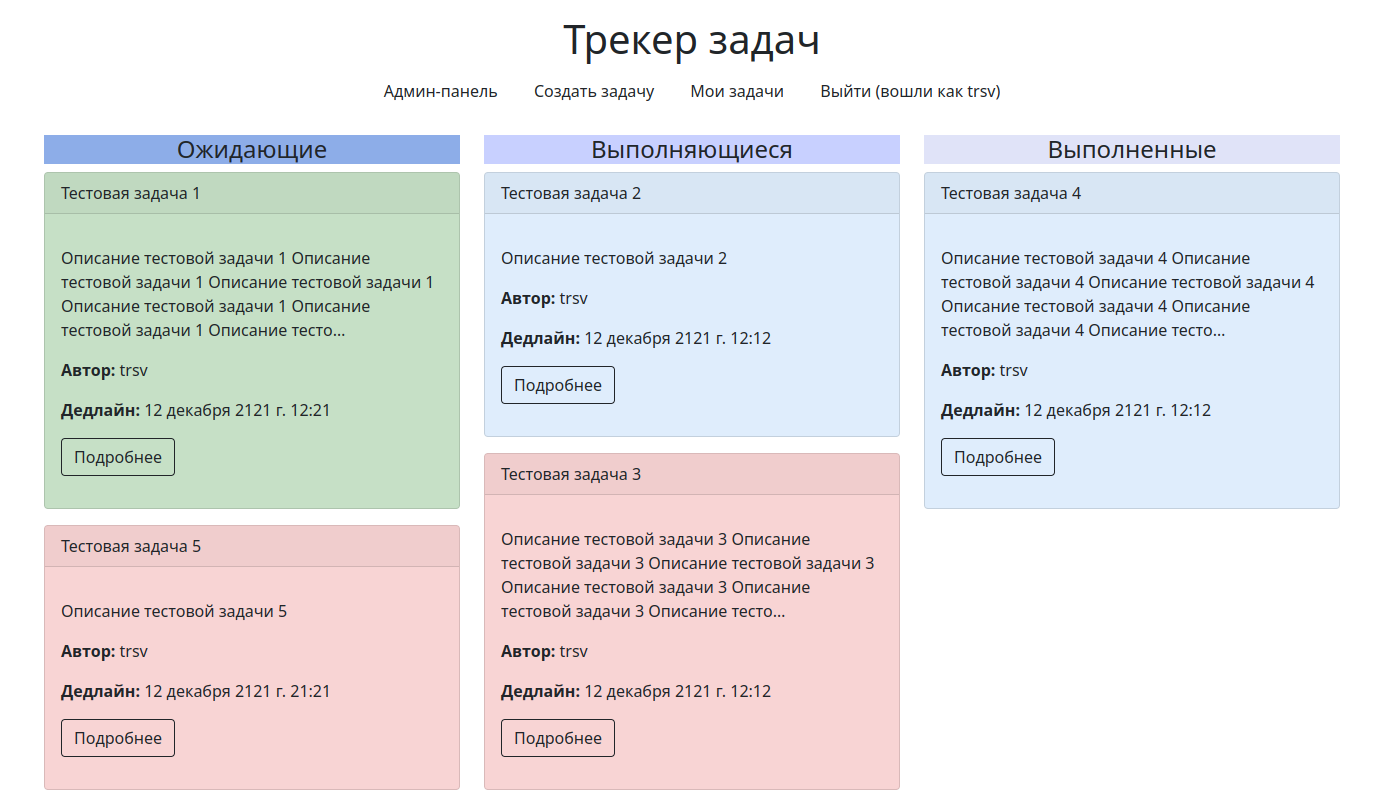
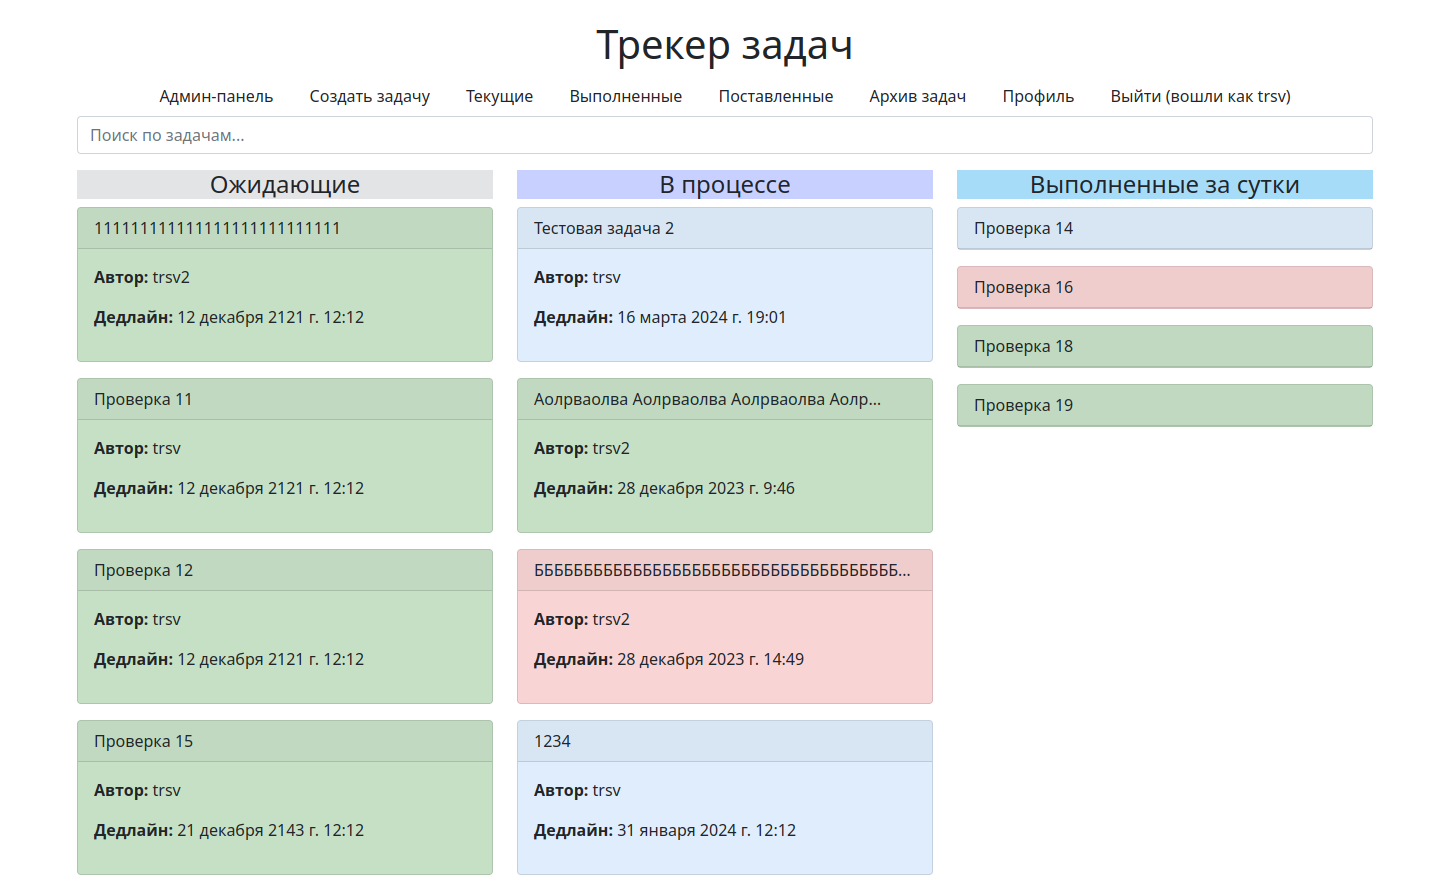
Bugfixes and some visual improvements.

diff --git a/backend/templates/includes/header.html b/backend/templates/includes/header.html
@@ -39,64 +39,14 @@
             {% endif %}
         </div>
         <div style="text-align: right;">
+
         {% if request.resolver_match.url_name not in excluded_urls %}
             <form action="{% url 'tracker:task_search' %}" method="get" class="form-inline">
-                <input id="searchInput" name="query" type="text" class="form-control" placeholder="Поиск по задачам...">
+                {% csrf_token %}
+                <input id="searchInput" name="query" type="text" class="form-control" placeholder="Поиск по задачам..." value="{{ search_query }}">
             </form>
         {% endif %}
         </div>
-        <br>
+{#        <br>#}
 </div>
 {% endblock %}
-
-
-
-
-{#{% load static %}#}
-{##}
-{#<link rel="stylesheet" href="{% static 'css/default.min.css' %}">#}
-{#<script src="{% static 'js/highlight.min.js' %}"></script>#}
-{##}
-{##}
-{#<!DOCTYPE html>#}
-{#<html lang="ru">#}
-{#<head>#}
-{#    {% block header_content %}#}
-{##}
-{#    <meta charset="UTF-8">#}
-{#    <meta name="viewport" content="width=device-width">#}
-{#    <link rel="stylesheet" href="{% static 'css/bootstrap.min.css' %}">#}
-{#</head>#}
-{#<div class="container mt-5">#}
-{#    <h1 class="text-center">#}
-{#        <a href="{% url 'tracker:index' %}" style="text-decoration: none; color: inherit;">#}
-{#            <h1 style="text-align: center;">Трекер задач</h1>#}
-{#        </a>#}
-{#    </h1>#}
-{#        <div style="text-align: center;">#}
-{#            {% if request.resolver_match.url_name != 'login' and request.resolver_match.url_name != 'register' and request.resolver_match.url_name != 'password_reset' %}#}
-{#                {% if user.is_staff or user.is_admin %}#}
-{#                    <a class="nav-link link-dark" href="{% url 'admin:index' %}" style="display: inline-block;">Админ-панель</a>#}
-{#                {% endif %}#}
-{#                {% if user.is_authenticated %}#}
-{#                    <a class="nav-link link-dark" href="{% url 'tracker:create' %}" style="display: inline-block;">Создать задачу</a>#}
-{#                    <a class="nav-link link-dark" href="{% url 'tracker:current_tasks' user=user%}" style="display: inline-block;">Текущие</a>#}
-{#                    <a class="nav-link link-dark" href="{% url 'tracker:user_archive' user=user%}" style="display: inline-block;">Выполненные</a>#}
-{#                    <a class="nav-link link-dark" href="{% url 'tracker:delegated_tasks' user=user%}" style="display: inline-block;">Поставленные</a>#}
-{#                    <a class="nav-link link-dark" href="{% url 'tracker:full_archive'%}" style="display: inline-block;">Архив задач</a>#}
-{#                    <a class="nav-link link-dark" href="{% url 'tracker:profile' user=user%}" style="display: inline-block;">Профиль</a>#}
-{#                    <a class="nav-link link-dark" href="{% url 'users:logout' %}" style="display: inline-block;">Выйти (вошли как {{ user.username }})</a>#}
-{#                {% else %}#}
-{#                    <a class="nav-link link-dark" href="{% url 'users:login' %}" style="display: inline-block;">Войти</a> |#}
-{#                    <a class="nav-link link-dark" href="{% url 'users:register' %}" style="display: inline-block;">Зарегистрироваться</a>#}
-{#                {% endif %}#}
-{#            {% endif %}#}
-{#        </div>#}
-{#        <div style="text-align: right;">#}
-{#            <form action="{% url 'tracker:task_search' %}" method="get" class="form-inline">#}
-{#                <input id="searchInput" name="query" type="text" class="form-control" placeholder="Поиск по задачам...">#}
-{#            </form>#}
-{#        </div>#}
-{#        <br>#}
-{#</div>#}
-{#{% endblock %}#}

diff --git a/backend/templates/tasks/create.html b/backend/templates/tasks/create.html
@@ -1,9 +1,13 @@
+{% load static %}
+{% load thumbnail %}
+
 <!DOCTYPE html>
 <html lang="ru">
 <head>
     <meta charset="UTF-8">
     <meta name="viewport" content="width=device-width, initial-scale=1, shrink-to-fit=no">
     <link rel="stylesheet" href="https://maxcdn.bootstrapcdn.com/bootstrap/4.5.2/css/bootstrap.min.css">
+    <link rel="stylesheet" href="{% static 'css/tracker.css' %}">
     <title>{% if task %}Редактировать{% else %}Создать{% endif %} задачу</title>
 </head>
 <body>
@@ -19,6 +23,7 @@
             {% endfor %}
         </div>
     {% endif %}
+
     <form method="post" enctype="multipart/form-data" {% if task %}action="{% url 'tracker:edit' pk=task.pk %}"{% else %}action="{% url 'tracker:create' %}"{% endif %}>
         {% csrf_token %}
 
@@ -27,15 +32,29 @@
         {% endif %}
         <div class="form-group">
             <label for="id_title">Название:</label>
-            <input type="text" class="form-control" id="id_title" name="title" {% if task %}value="{{ task.title }}"{% elif form.title.value %}value="{{ form.title.value }}"{% endif %} required>
+            <input type="text" class="form-control" id="id_title" name="title" placeholder="Введите название задачи" {% if task %}value="{{ task.title }}"{% elif form.title.value %}value="{{ form.title.value }}"{% endif %} required>
         </div>
 
         <div class="form-group">
             <label for="id_description">Описание:</label>
-            <textarea class="form-control" id="id_description" name="description" rows="6" required>{% if task %}{{ task.description }}{% elif form.description.value %}{{ form.description.value }}{% endif %}</textarea>
+            <textarea class="form-control" id="id_description" name="description" rows="6" placeholder="Опишите задачу. Можно использовать упрощенный markdown-синтаксис" required>{% if task %}{{ task.description }}{% elif form.description.value %}{{ form.description.value }}{% endif %}</textarea>
         </div>
 
         {% if task and task.image %}
+
+            <label for="id_image">Изображение:</label>
+
+            <div class="form-group">
+                {% thumbnail task.image "200x150" crop="center" upscale=True as im %}
+                    <div id="overlay" class="overlay" onclick="closeImageOverlay()">
+                        <img src="{{ task.image.url }}" alt="Изображение задачи">
+                    </div>
+                    <a href="javascript:void(0);" onclick="openImageOverlay()">
+                        <img src="{{ im.url }}" width="{{ im.width }}" height="{{ im.height }}" alt="Изображение задачи">
+                    </a>
+                {% endthumbnail %}
+            </div>
+
             <div class="form-group">
                 <input type="checkbox" id="delete_image" name="delete_image"> <label for="delete_image">Удалить существующее изображение</label>
             </div>
@@ -121,5 +140,16 @@
 <script src="https://ajax.googleapis.com/ajax/libs/jquery/3.5.1/jquery.min.js"></script>
 <script src="https://cdnjs.cloudflare.com/ajax/libs/popper.js/1.16.0/umd/popper.min.js"></script>
 <script src="https://maxcdn.bootstrapcdn.com/bootstrap/4.5.2/js/bootstrap.min.js"></script>
+
+<script>
+    function openImageOverlay() {
+        document.getElementById('overlay').style.display = 'block';
+    }
+
+    function closeImageOverlay() {
+        document.getElementById('overlay').style.display = 'none';
+    }
+</script>
+
 </body>
 </html>

diff --git a/backend/templates/tasks/create_comment.html b/backend/templates/tasks/create_comment.html
@@ -81,7 +81,7 @@
                   {% csrf_token %}
                   <input type="hidden" name="parent" value="{{ node.pk }}">
                   <div class="form-group">
-                    <textarea class="form-control" id="id_text" name="text" rows="3" required></textarea>
+                    <textarea class="form-control" id="id_text" name="text" rows="3" required placeholder="Разрешен упрощенный markdown-синтаксис"></textarea>
                   </div>
                   <div class="btn-group-toggle mt-2">
                     <button type="submit" class="btn btn-outline-success">Отправить ответ</button>
@@ -123,13 +123,12 @@
       <div class="card">
         <div class="card-header">
           <h6>Добавить комментарий</h6>
-          <small class="text-muted">разрешен упрощенный markdown-синтаксис</small>
         </div>
         <div class="card-body">
           <form method="post" action="{% url 'tracker:create_comment' task_pk=task.pk %}">
             {% csrf_token %}
             <div class="form-group">
-              <textarea class="form-control" id="id_text" name="text" rows="3" required>{{ form.text.value|default:'' }}</textarea>
+              <textarea class="form-control" id="id_text" name="text" rows="3" placeholder="Разрешен упрощенный markdown-синтаксис" required>{{ form.text.value|default:'' }}</textarea>
             </div>
             <div class="btn-group-toggle mt-2">
               <button type="submit" class="btn btn-outline-primary">Отправить</button>

diff --git a/backend/templates/tasks/detail.html b/backend/templates/tasks/detail.html
@@ -6,7 +6,7 @@
 <link rel="stylesheet" href="{% static 'css/tracker.css' %}">
 <script src="{% static 'js/highlight.min.js' %}"></script>
 
-{% thumbnail task.image "150x100" crop="center" upscale=True as im %}
+{% thumbnail task.image "200x150" crop="center" upscale=True as im %}
     <div id="overlay" class="overlay" onclick="closeImageOverlay()">
         <img src="{{ task.image.url }}" alt="Изображение задачи">
     </div>

diff --git a/backend/tracker/views.py b/backend/tracker/views.py
@@ -382,7 +382,7 @@ def full_archive_by_dates(request):
 
 def get_profile(username):
     """Получение ссылки на профиль пользователя."""
-    
+
     return reverse('tracker:profile', kwargs={'user': username})
 
 
@@ -686,7 +686,10 @@ def delete_comment(request, pk):
 def task_search(request):
     """Поиск по задачам."""
 
-    search_query = request.GET.get('query')
+    # Не делал форму поиска, т.к. с формой поиска не смог добиться нужного
+    # внешнего вида поля поиска в шаблоне. Обошелся прямым запросом из
+    # шаблона к вьюхе.
+    search_query = request.GET.get('query', '')
 
     if not search_query:
         context = {'no_results_message': 'Пустой поиск'}
